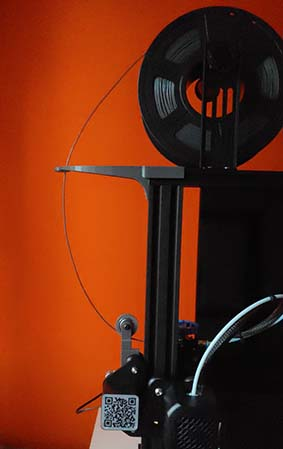
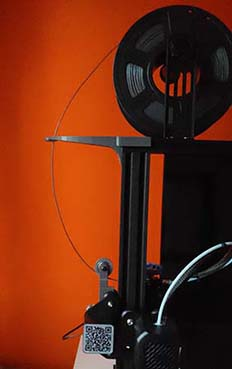
resized all images and updated README file

diff --git a/README.md b/README.md
@@ -1,5 +1,6 @@
 # Ender3V2
 This is the repository to keep trace of the upgrade I've done to my first 3D Printer, an Ender 3 V2.
+[Here](./Schema/) is the schema for the V4.2.2 board.
 I recived the 3d printer on 6th October 2021 and I buld it stright away:
 
 |![printer buit](./images/00-3DPrinter.jpeg)|
@@ -58,7 +59,9 @@ The nex few upgrade I made to the printer are a dry box to keep the filament dry
 The drybox is not finisced yet but I'll show you anyways how is it going:
 |![Spool Roller](./images/14-SpoolRollerDry.jpeg)|![Dry Box](./images/15-DryBox.jpeg)|
 |-|-|
+
 The installation of the harder springs and the bed insulation is pretty easy and the ammount of time I spend on waiting the bed while it heat up is considerable lower than before.
+
 |![Bed updated with harder prings and bed insulation](./images/13-Spring+Insulation.jpeg)|
 |-|
 ***
@@ -66,8 +69,8 @@ The installation of the harder springs and the bed insulation is pretty easy and
 ## New Printing Head
 I'm planning on changing the whol printing head, replacing the stock boden extruder with a diurect drive BMG clone, the Hot-end with a genuine E3D V6 and the stock blower fan 4010 with a 4020. For doing this I had to print a new fanduct witha a body where I can attach the Hot-end and the dd BMG. Watching around on thingiverse I found a big project called [Hero Me](https://www.thingiverse.com/thing:4460970) and after  some reserch I choose to print it. This part of the Project is stil work in progres so I have only soma pics of the printed parts:
 
-|![little part of the Hero Me](./images/13-Spring+Insulation.jpeg)|![body of the Hero Me](./images/13-Spring+Insulation.jpeg)|![fanduct for the Hero Me](./images/13-Spring+Insulation.jpeg)|
-|-|-|-|
+|![little part of the Hero Me](./images/16-HeroMe.jpeg)|![body of the Hero Me](./images/17-HeroMe.jpeg)|![fanduct for the Hero Me](./images/18-HeroMe.jpeg)|![Main structure hero me](./images/19-HeroMe.jpeg)
+|-|-|-|-|
 
 ***
 
